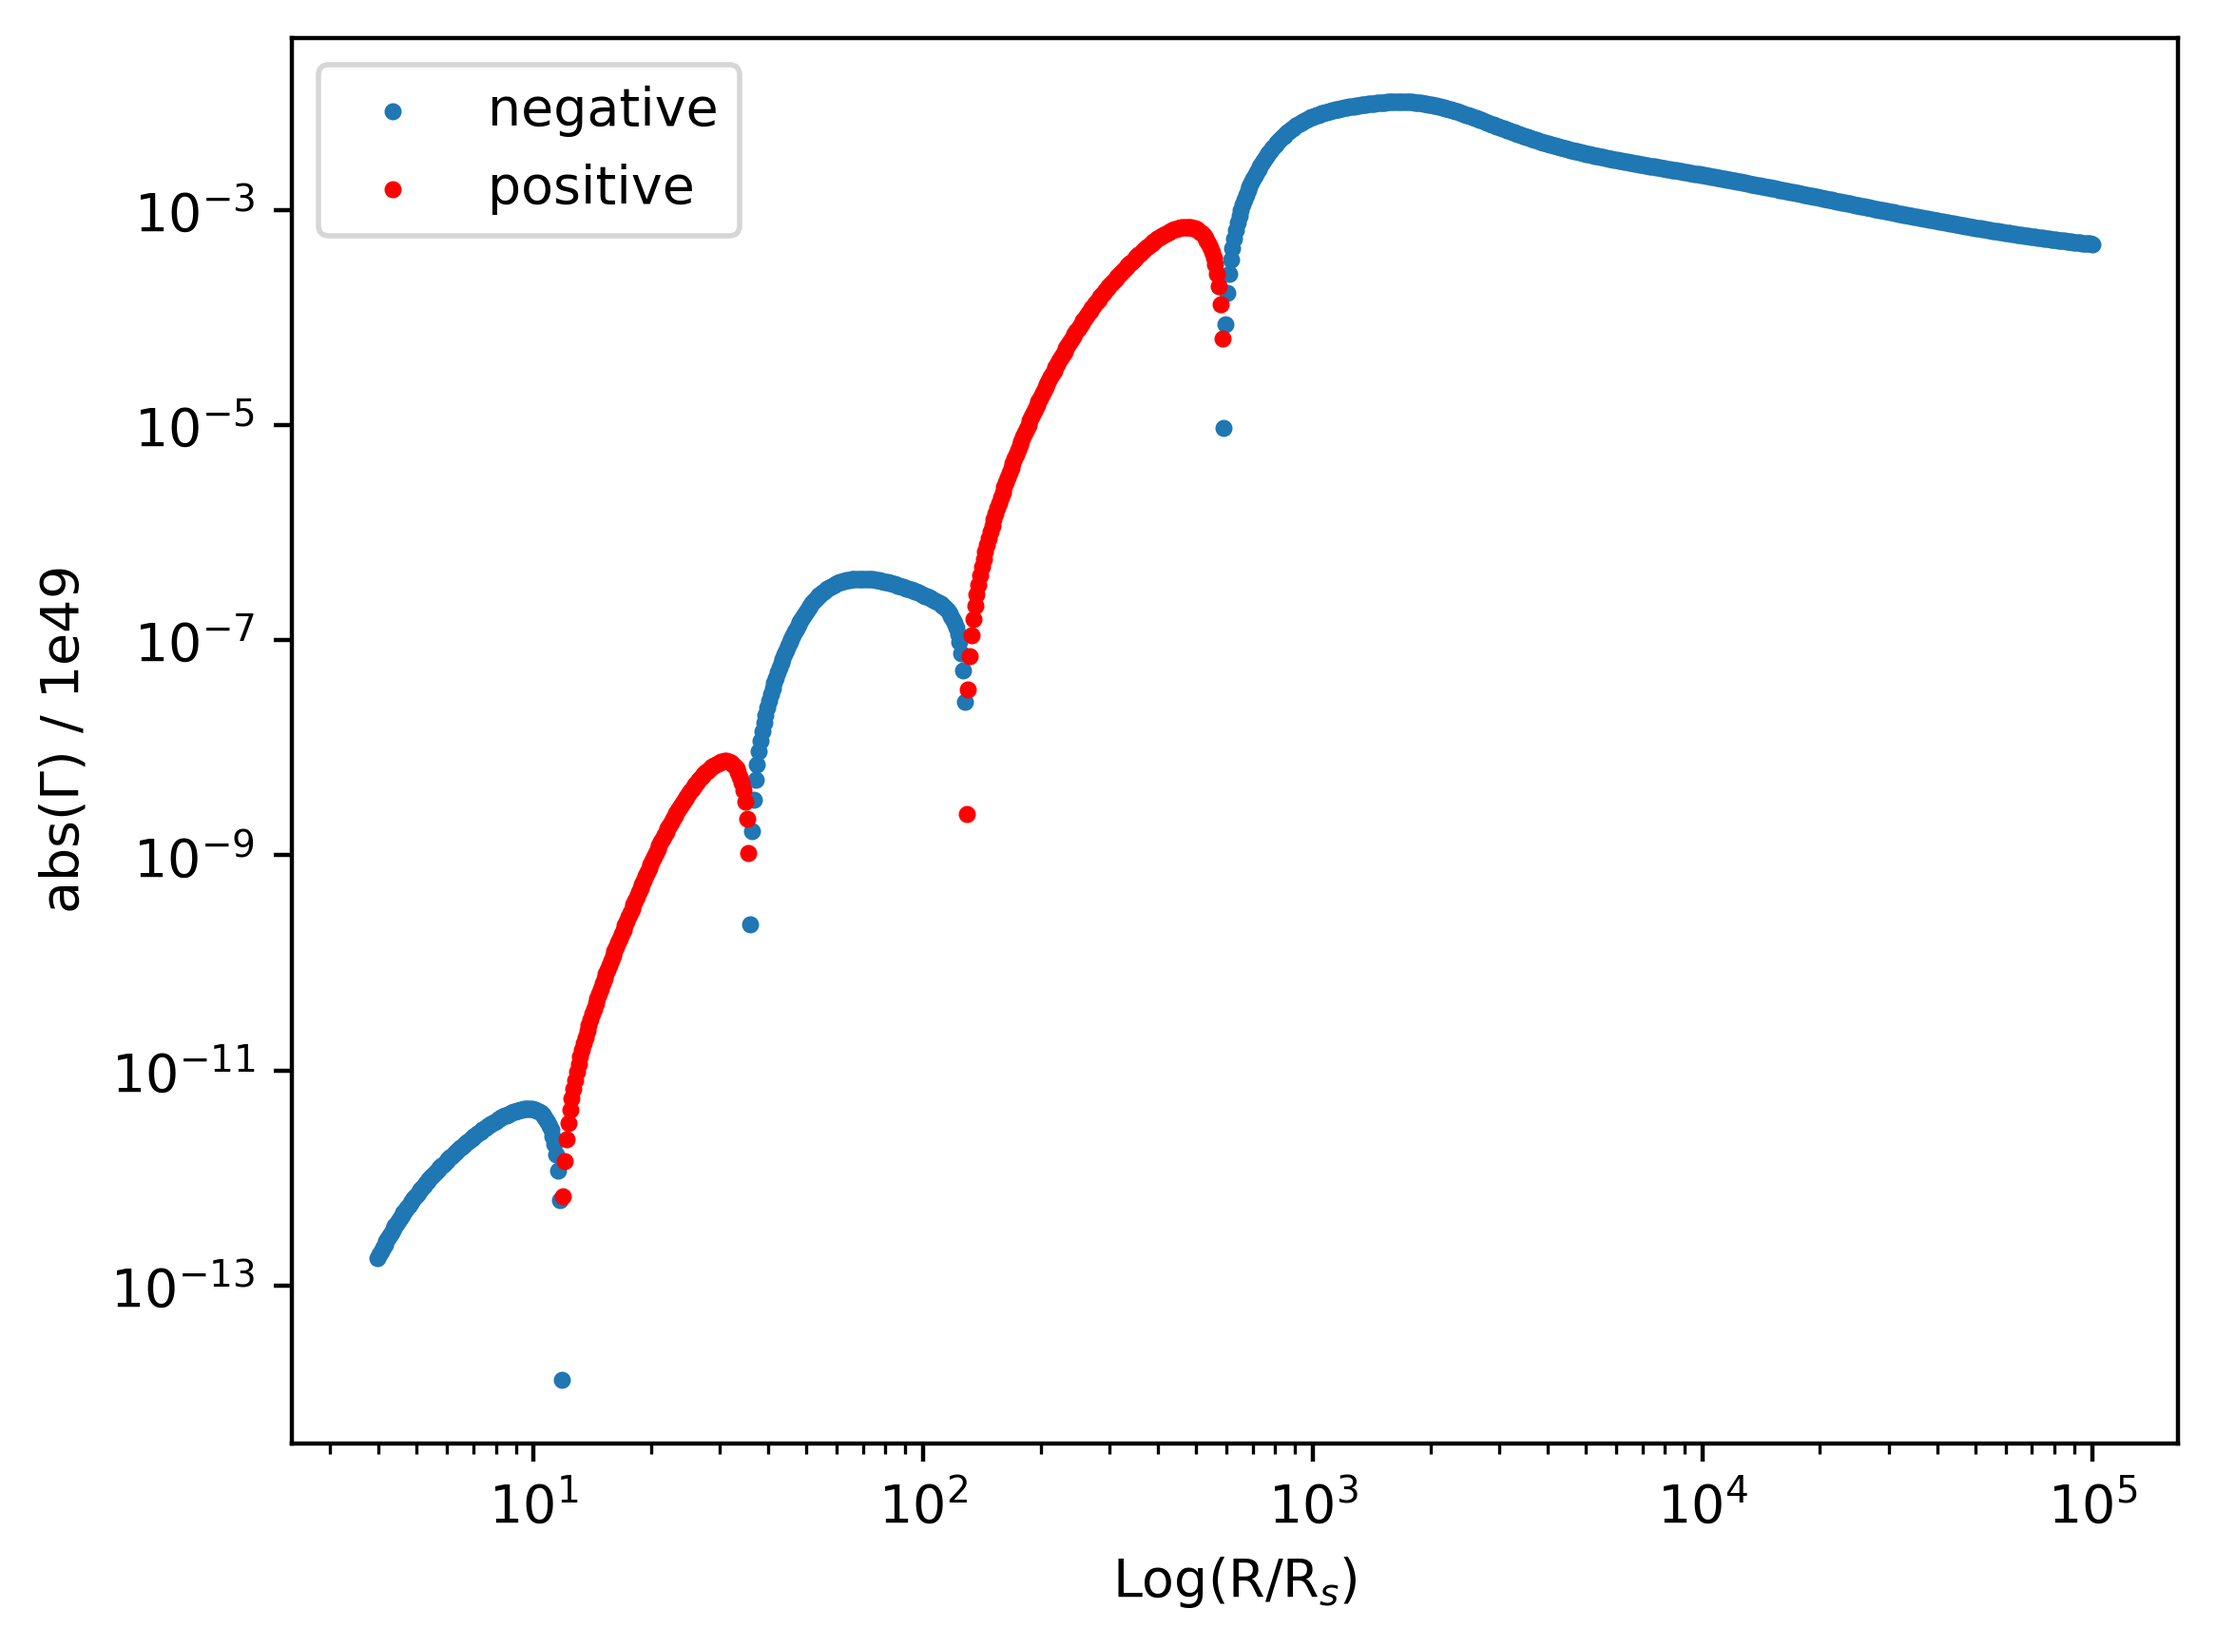
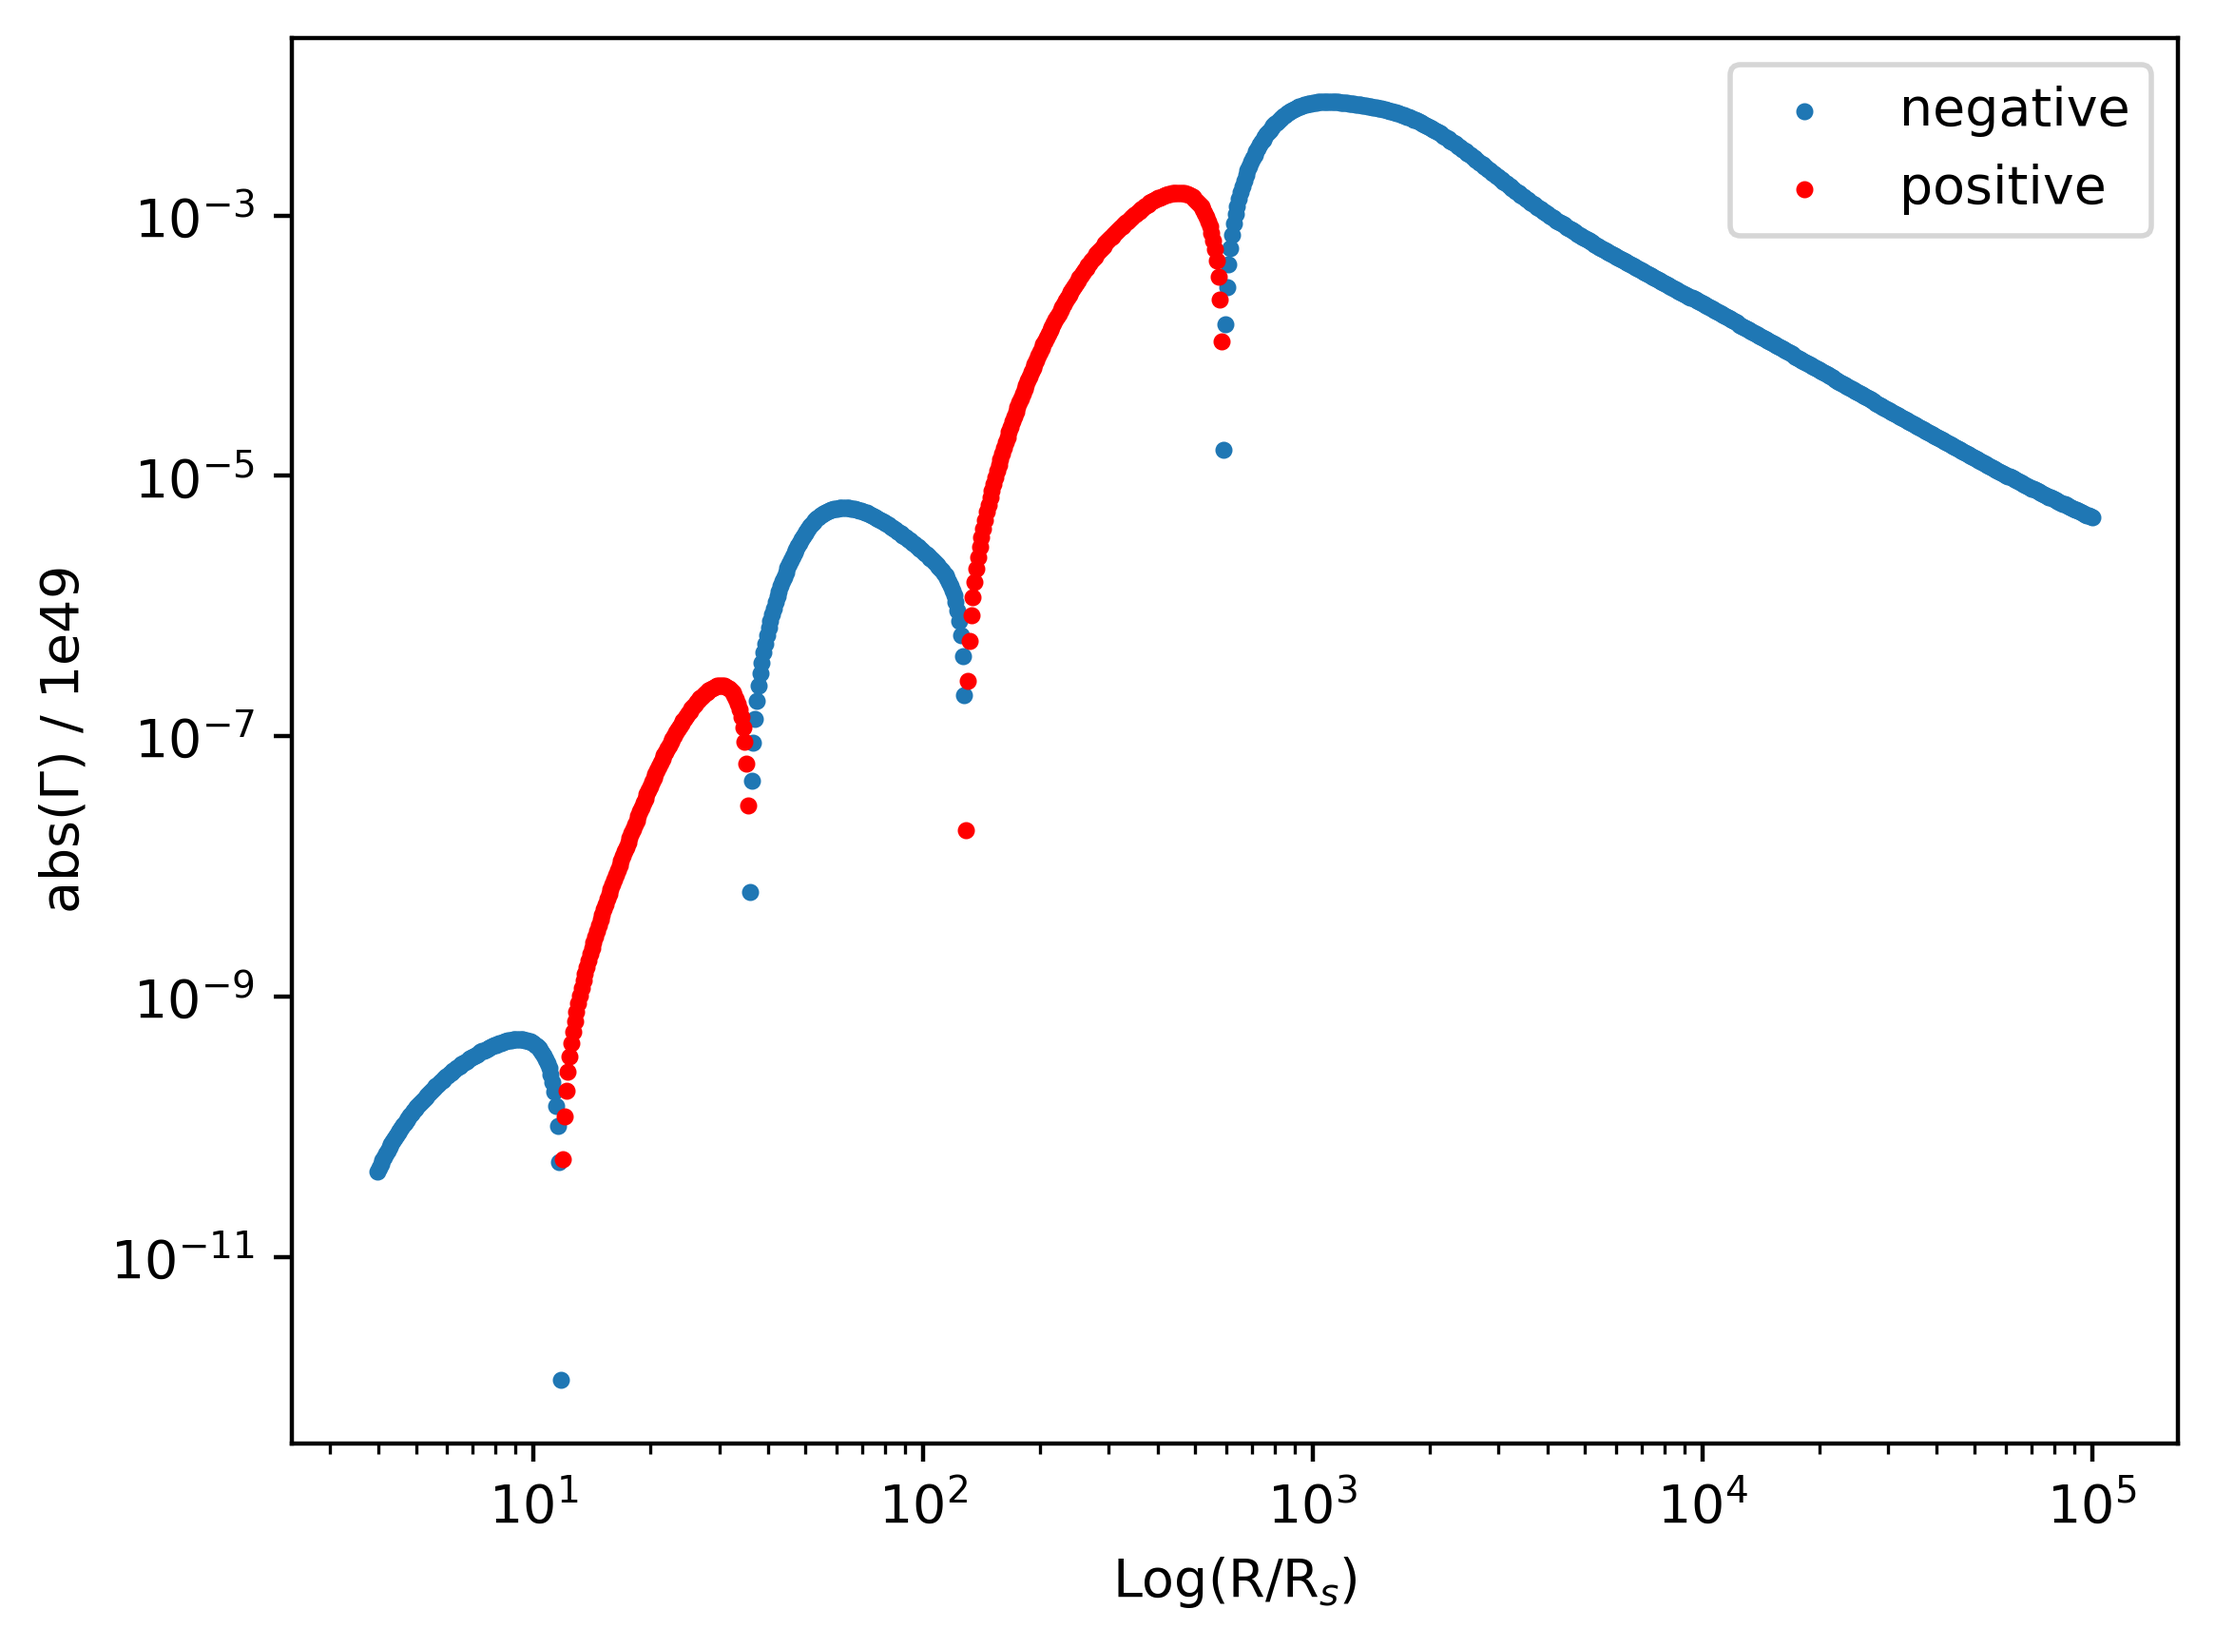
Fix bug in torque model plot

diff --git a/N-Body_Code/CommonTools.py b/N-Body_Code/CommonTools.py
@@ -122,7 +122,7 @@ class AGNDisk(object):
         xi = beta - (gamma - 1) * alpha
         
         Theta = (c_v * Sigma * rotvel * tau_eff) / (12 * np.pi * stefboltz * self.disk_temp(logr)**3)
-        Gamma_0 = (q * radius / asp_ratio)**2 * Sigma * radius**4 * rotvel**2
+        Gamma_0 = (q / asp_ratio)**2 * Sigma * radius**4 * rotvel**2
         Gamma_iso =  -0.85 - alpha - 0.9 * beta
         Gamma_ad = (-0.85 - alpha - 1.7 * beta + 7.9 * xi / gamma) / gamma
         

diff --git a/N-Body_Code/DiskModel_Torques.py b/N-Body_Code/DiskModel_Torques.py
@@ -67,7 +67,7 @@ torques = np.zeros(len(radii))
 for i, radius in enumerate(radii):
     torques[i] = agn.mig_force(1e-7, radius)
 
-torques *= agn.massscale * agn.lenscale_m**2 * 1e7 / (agn.timescale**2 * 1e49)
+torques *= radii * agn.massscale * agn.lenscale_m**2 * 1e7 / (agn.timescale**2 * 1e49)
 pos_vals = torques > 0 
 neg_vals = torques <= 0 
 fig, ax = plt.subplots()
